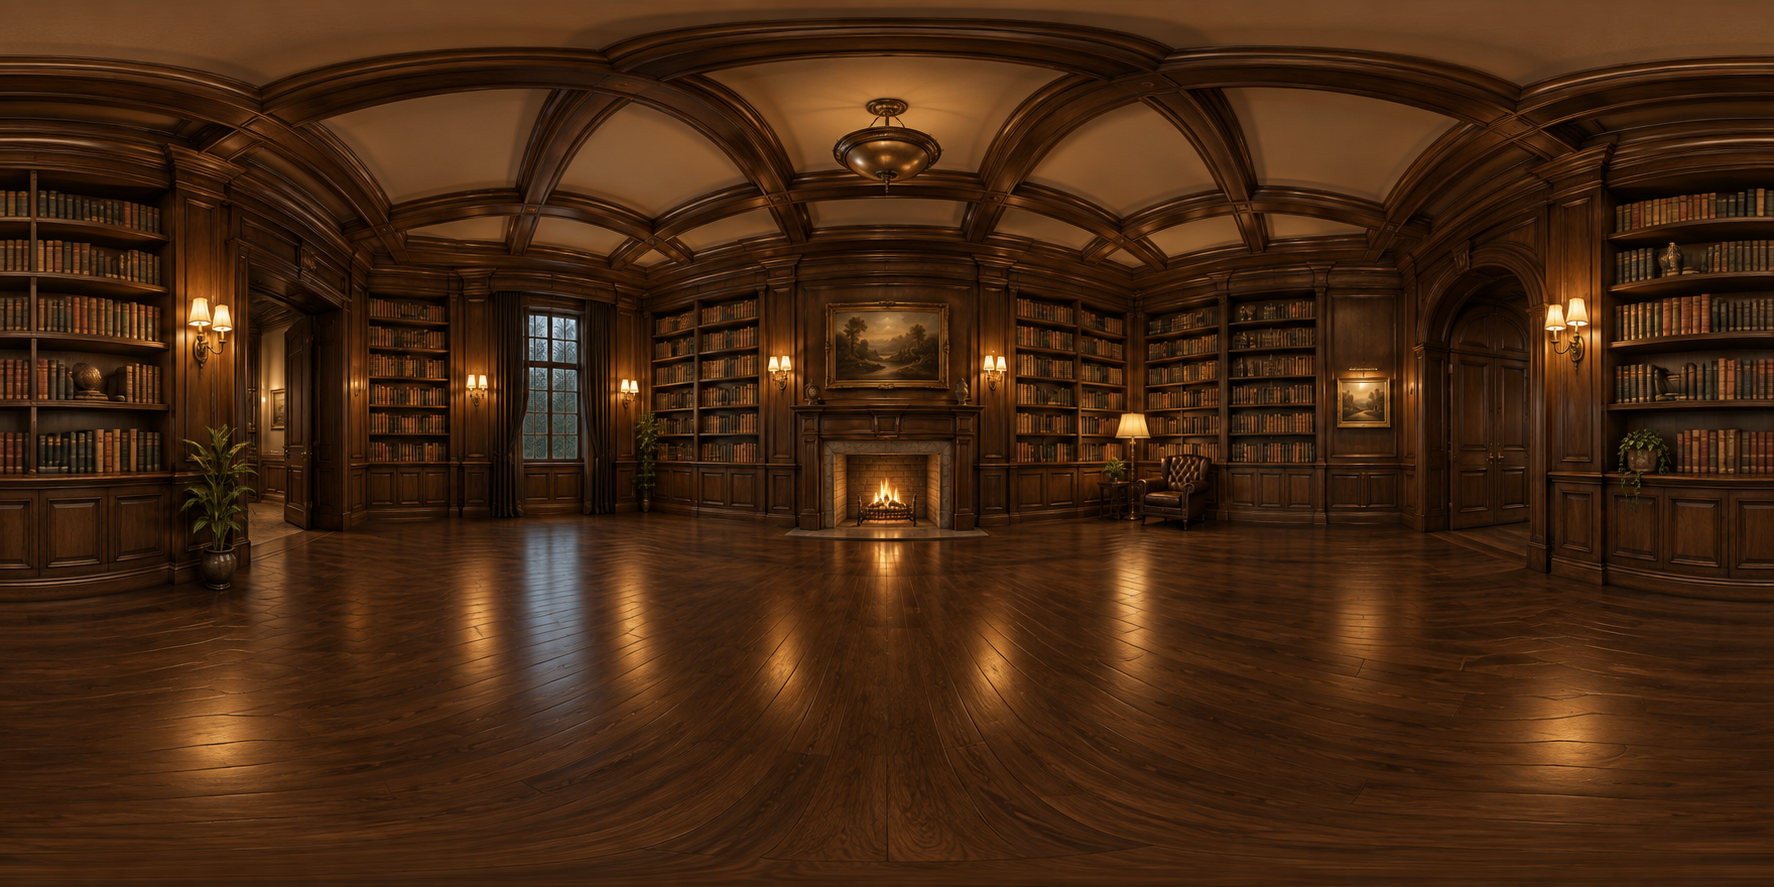
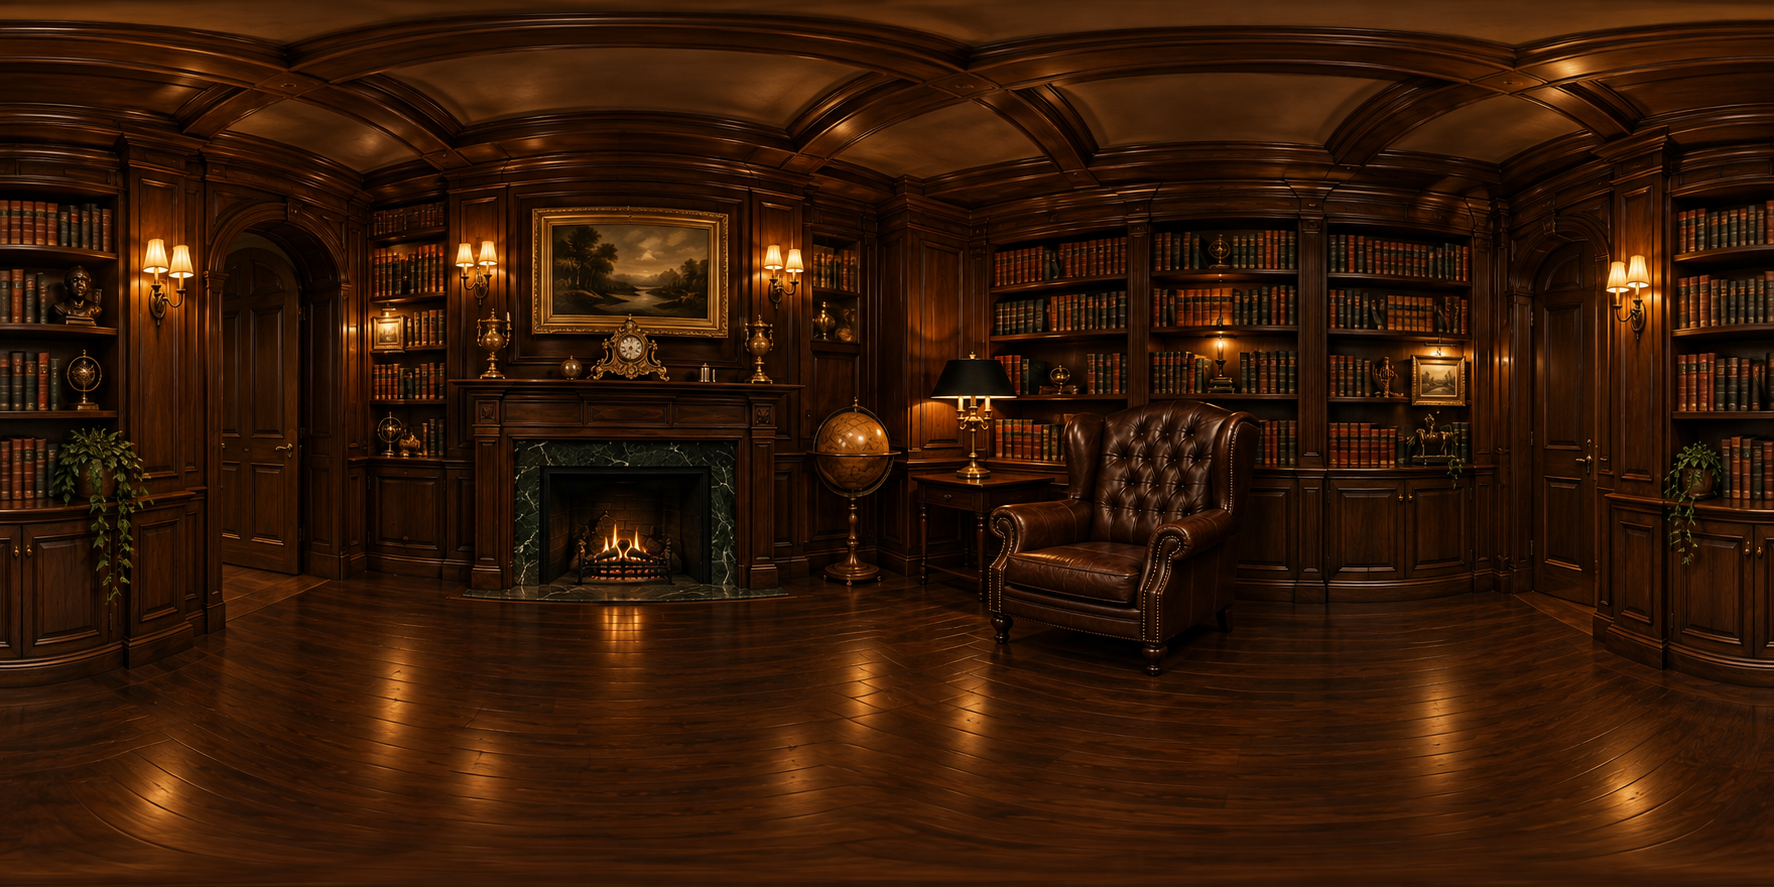
Fix hidden chessboard squares and match the library reference

diff --git a/scene.js b/scene.js
@@ -2,6 +2,7 @@ import * as THREE from './vendor/three.module.js';
 import { OrbitControls } from './vendor/OrbitControls.js';
 import { GLTFLoader } from './vendor/GLTFLoader.js';
 import {fitBoardCamera} from './camera.js';
+import {BOARD_SURFACE_Y,createBoard} from './board.js';
 
 const PIECES = {p:'pawn',r:'rook',n:'knight',b:'bishop',q:'queen',k:'king'};
 const NAMES = {p:'bonde',r:'tårn',n:'springer',b:'løber',q:'dronning',k:'konge'};
@@ -26,10 +27,10 @@ export async function createChessScene({canvas,onSquare,onReady,onError,onCamera
   let needsRender=true,disposed=false,ready=false,state=null,side='w';
   let keyboardSquare={r:6,c:4},keyboardVisible=false;
   const pieceRoot=new THREE.Group();world.add(pieceRoot);
-  const pickTargets=[],squares=[],pieceMeshes=new Map(),templates={};
+  const pickTargets=[],pieceMeshes=new Map(),templates={};
   const loader=new THREE.TextureLoader();
   const raycaster=new THREE.Raycaster(),pointer=new THREE.Vector2();
-  const point=(r,c,y=.07)=>new THREE.Vector3(c-3.5,y,r-3.5);
+  const point=(r,c,y=BOARD_SURFACE_Y)=>new THREE.Vector3(c-3.5,y,r-3.5);
   function resize(){const w=canvas.clientWidth,h=canvas.clientHeight;if(!w||!h)return;renderer.setSize(w,h,false);camera.aspect=w/h;camera.updateProjectionMatrix();if(ready)fitBoardCamera(camera,controls.target,{azimuth:controls.getAzimuthalAngle(),polar:controls.getPolarAngle()});needsRender=true;}
   function resetView(nextSide=side){side=nextSide;resize();controls.target.set(0,.25,0);fitBoardCamera(camera,controls.target,{azimuth:(side==='b'?Math.PI:0)+.28});controls.update();needsRender=true;}
   resetView();
@@ -44,8 +45,8 @@ export async function createChessScene({canvas,onSquare,onReady,onError,onCamera
   const markerMats={selected:new THREE.MeshBasicMaterial({color:0xf5ca71}),legal:new THREE.MeshBasicMaterial({color:0x9eccac}),last:new THREE.MeshBasicMaterial({color:0xd4a65f,transparent:true,opacity:.18,depthWrite:false}),check:new THREE.MeshBasicMaterial({color:0xea7467}),focus:new THREE.MeshBasicMaterial({color:0xffffff})};
   const markerRoot=new THREE.Group();world.add(markerRoot);
   const ringGeo=new THREE.RingGeometry(.38,.415,48),dotGeo=new THREE.CircleGeometry(.105,32),lastGeo=new THREE.PlaneGeometry(.96,.96);
-  function marker(geo,mat,r,c,y=.026){const m=new THREE.Mesh(geo,mat);m.rotation.x=-Math.PI/2;m.position.copy(point(r,c,y));markerRoot.add(m);}
-  function updateMarkers(){markerRoot.clear();if(!state)return;if(state.lastMove)for(const p of [state.lastMove.from,state.lastMove.to])marker(lastGeo,markerMats.last,p.r,p.c,.025);if(state.selected)marker(ringGeo,markerMats.selected,state.selected.r,state.selected.c,.028);for(const p of state.legalTargets)marker(p.capture?ringGeo:dotGeo,markerMats.legal,p.r,p.c,.03);if(state.checkSquare)marker(ringGeo,markerMats.check,state.checkSquare.r,state.checkSquare.c,.033);if(keyboardVisible)marker(ringGeo,markerMats.focus,keyboardSquare.r,keyboardSquare.c,.037);needsRender=true;}
+  function marker(geo,mat,r,c,y=BOARD_SURFACE_Y+.006){const m=new THREE.Mesh(geo,mat);m.rotation.x=-Math.PI/2;m.position.copy(point(r,c,y));markerRoot.add(m);}
+  function updateMarkers(){markerRoot.clear();if(!state)return;if(state.lastMove)for(const p of [state.lastMove.from,state.lastMove.to])marker(lastGeo,markerMats.last,p.r,p.c,BOARD_SURFACE_Y+.003);if(state.selected)marker(ringGeo,markerMats.selected,state.selected.r,state.selected.c,BOARD_SURFACE_Y+.006);for(const p of state.legalTargets)marker(p.capture?ringGeo:dotGeo,markerMats.legal,p.r,p.c,BOARD_SURFACE_Y+.008);if(state.checkSquare)marker(ringGeo,markerMats.check,state.checkSquare.r,state.checkSquare.c,BOARD_SURFACE_Y+.011);if(keyboardVisible)marker(ringGeo,markerMats.focus,keyboardSquare.r,keyboardSquare.c,BOARD_SURFACE_Y+.015);needsRender=true;}
   function squareDescription(r,c){const piece=state?.board[r]?.[c];return `${'abcdefgh'[c]}${8-r}: ${piece?(piece.color==='w'?'hvid':'sort')+' '+NAMES[piece.type]:'tomt felt'}`;}
   function announce(){canvas.setAttribute('aria-label','3D-skakbræt. '+squareDescription(keyboardSquare.r,keyboardSquare.c));onSquareFocus?.(squareDescription(keyboardSquare.r,keyboardSquare.c));}
   function pick(e){const rect=canvas.getBoundingClientRect();pointer.set((e.clientX-rect.left)/rect.width*2-1,-(e.clientY-rect.top)/rect.height*2+1);raycaster.setFromCamera(pointer,camera);const hit=raycaster.intersectObjects([...pickTargets,...pieceRoot.children],true)[0];if(!hit)return null;let node=hit.object;while(node&&!node.userData.square)node=node.parent;return node?.userData.square||null;}
@@ -63,7 +64,7 @@ export async function createChessScene({canvas,onSquare,onReady,onError,onCamera
   canvas.addEventListener('webglcontextlost',e=>{e.preventDefault();ready=false;onError?.(new Error('3D-visningen mistede forbindelsen til grafikken. Genindlæs for at fortsætte.'));});
   function frame(){if(disposed)return;requestAnimationFrame(frame);if(document.hidden)return;controls.update();if(needsRender){renderer.render(world,camera);needsRender=false;}}frame();
   const materials={};
-  const api={resetView,update(next){state=next;if(!ready)return;for(let r=0;r<8;r++)for(let c=0;c<8;c++){const key=`${r},${c}`,p=state.board[r][c],old=pieceMeshes.get(key),signature=p?`${p.color}${p.type}`:'';if(old&&old.userData.signature!==signature){pieceRoot.remove(old);pieceMeshes.delete(key);}if(p&&!pieceMeshes.has(key)){const group=templates[p.type].clone(true);group.scale.set(1.208,1,1.208);group.position.copy(point(r,c,.018));if(p.color==='b')group.rotation.y=Math.PI;group.userData.square={r,c};group.userData.signature=signature;group.traverse(n=>{if(n.isMesh){n.material=materials[p.color];n.castShadow=true;n.receiveShadow=true;}});const collar=new THREE.Mesh(new THREE.CylinderGeometry(p.type==='n'?.173:.205,p.type==='n'?.185:.21,.035,48),brass);collar.position.y=p.type==='n'?.384:.055;group.add(collar);pieceRoot.add(group);pieceMeshes.set(key,group);}}updateMarkers();announce();},dispose(){disposed=true;observer.disconnect();controls.dispose();renderer.dispose();}};
+  const api={resetView,update(next){state=next;if(!ready)return;for(let r=0;r<8;r++)for(let c=0;c<8;c++){const key=`${r},${c}`,p=state.board[r][c],old=pieceMeshes.get(key),signature=p?`${p.color}${p.type}`:'';if(old&&old.userData.signature!==signature){pieceRoot.remove(old);pieceMeshes.delete(key);}if(p&&!pieceMeshes.has(key)){const group=templates[p.type].clone(true);group.scale.set(1.208,1,1.208);group.position.copy(point(r,c,BOARD_SURFACE_Y));if(p.color==='b')group.rotation.y=Math.PI;group.userData.square={r,c};group.userData.signature=signature;group.traverse(n=>{if(n.isMesh){n.material=materials[p.color];n.castShadow=true;n.receiveShadow=true;}});const collar=new THREE.Mesh(new THREE.CylinderGeometry(p.type==='n'?.173:.205,p.type==='n'?.185:.21,.035,48),brass);collar.position.y=p.type==='n'?.384:.055;group.add(collar);pieceRoot.add(group);pieceMeshes.set(key,group);}}updateMarkers();announce();},dispose(){disposed=true;observer.disconnect();controls.dispose();renderer.dispose();}};
   try{
     const [wood,rough,normal,panorama,...models]=await Promise.all([
       loader.loadAsync('./assets/wood_table_001_diff_1k.jpg'),loader.loadAsync('./assets/wood_table_001_rough_1k.jpg'),loader.loadAsync('./assets/wood_table_001_nor_gl_1k.jpg'),loader.loadAsync('./assets/library-panorama.png'),
@@ -72,17 +73,17 @@ export async function createChessScene({canvas,onSquare,onReady,onError,onCamera
     wood.colorSpace=THREE.SRGBColorSpace;wood.anisotropy=8;wood.wrapS=wood.wrapT=THREE.RepeatWrapping;
     for(const t of [rough,normal]){t.wrapS=t.wrapT=THREE.RepeatWrapping;t.anisotropy=8;}
     panorama.mapping=THREE.EquirectangularReflectionMapping;panorama.colorSpace=THREE.SRGBColorSpace;
-    world.background=panorama;world.backgroundBlurriness=.1;world.backgroundIntensity=.65;world.backgroundRotation.y=.8;
-    const pmrem=new THREE.PMREMGenerator(renderer);world.environment=pmrem.fromEquirectangular(panorama).texture;world.environmentIntensity=.5;pmrem.dispose();
+    // Align the fireplace/globe/chair side of the room with the initial board view.
+    world.background=panorama;world.backgroundBlurriness=.045;world.backgroundIntensity=.82;world.backgroundRotation.y=1.5;
+    const pmrem=new THREE.PMREMGenerator(renderer);world.environment=pmrem.fromEquirectangular(panorama).texture;world.environmentIntensity=.5;world.environmentRotation.copy(world.backgroundRotation);pmrem.dispose();
     const walnut=new THREE.MeshPhysicalMaterial({color:0x9e7655,map:wood,roughnessMap:rough,roughness:.55,normalMap:normal,normalScale:new THREE.Vector2(.13,.13),clearcoat:.5,clearcoatRoughness:.27});
     const darkTile=walnut.clone();darkTile.color.set(0x9f7851);darkTile.roughness=.4;
     const lightTile=new THREE.MeshPhysicalMaterial({color:0xf0d5a3,roughness:.42,normalMap:normal,normalScale:new THREE.Vector2(.035,.035),clearcoat:.35,clearcoatRoughness:.3});
     const darkTrim=new THREE.MeshStandardMaterial({color:0x1d1008,roughness:.35});
-    box(9.65,.22,9.65,-.39,darkTrim);box(9.5,.035,9.5,-.261,brass);box(9.5,.27,9.5,-.108,walnut);box(8.13,.025,8.13,.007,brass);
+    const board=createBoard({walnut,brass,darkTrim,lightTile,darkTile});
+    world.add(board.group);pickTargets.push(...board.squares);
     const tableMat=walnut.clone();const tableMap=wood.clone();tableMap.repeat.set(2,2);tableMap.needsUpdate=true;tableMat.map=tableMap;tableMat.color.set(0x76523a);tableMat.roughness=.64;box(16,.38,14,-.72,tableMat);
-    const squareGeometry=new THREE.PlaneGeometry(1,1);
-    for(let r=0;r<8;r++)for(let c=0;c<8;c++){const mesh=new THREE.Mesh(squareGeometry,(r+c)%2===0?lightTile:darkTile);mesh.rotation.x=-Math.PI/2;mesh.position.copy(point(r,c,.022));mesh.receiveShadow=true;mesh.userData.square={r,c};world.add(mesh);pickTargets.push(mesh);squares.push(mesh);}
-    function label(text,x,z,rotation=0){const c=document.createElement('canvas');c.width=c.height=128;const ctx=c.getContext('2d');ctx.fillStyle='#d7b780';ctx.font='50px Georgia';ctx.textAlign='center';ctx.textBaseline='middle';ctx.fillText(text,64,66);const t=new THREE.CanvasTexture(c);t.colorSpace=THREE.SRGBColorSpace;const mesh=new THREE.Mesh(new THREE.PlaneGeometry(.31,.31),new THREE.MeshBasicMaterial({map:t,transparent:true,depthWrite:false}));mesh.rotation.set(-Math.PI/2,0,rotation);mesh.position.set(x,.035,z);world.add(mesh);}
+    function label(text,x,z,rotation=0){const c=document.createElement('canvas');c.width=c.height=128;const ctx=c.getContext('2d');ctx.fillStyle='#d7b780';ctx.font='50px Georgia';ctx.textAlign='center';ctx.textBaseline='middle';ctx.fillText(text,64,66);const t=new THREE.CanvasTexture(c);t.colorSpace=THREE.SRGBColorSpace;const mesh=new THREE.Mesh(new THREE.PlaneGeometry(.31,.31),new THREE.MeshBasicMaterial({map:t,transparent:true,depthWrite:false}));mesh.rotation.set(-Math.PI/2,0,rotation);mesh.position.set(x,BOARD_SURFACE_Y+.003,z);world.add(mesh);}
     for(let i=0;i<8;i++){label('abcdefgh'[i],i-3.5,4.35);label('abcdefgh'[i],i-3.5,-4.35,Math.PI);label(String(8-i),-4.35,i-3.5);label(String(8-i),4.35,i-3.5,Math.PI);}
     materials.w=new THREE.MeshPhysicalMaterial({color:0xf0d9ad,roughness:.32,clearcoat:.55,clearcoatRoughness:.2,metalness:.06});
     materials.b=new THREE.MeshPhysicalMaterial({color:0x55412c,map:wood,roughness:.3,clearcoat:.62,clearcoatRoughness:.2,metalness:.06,normalMap:normal,normalScale:new THREE.Vector2(.035,.035)});

diff --git a/board.js b/board.js
@@ -1,0 +1,40 @@
+import * as THREE from './vendor/three.module.js';
+
+// One shared height keeps pieces and move indicators above the playing surface.
+export const BOARD_SURFACE_Y = .04;
+
+export function createBoard({walnut,brass,darkTrim,lightTile,darkTile}) {
+  const group=new THREE.Group();
+  group.name='chess-board';
+  const squares=[];
+  function box(name,width,height,depth,centerY,material) {
+    const mesh=new THREE.Mesh(new THREE.BoxGeometry(width,height,depth),material);
+    mesh.name=name;
+    mesh.position.y=centerY;
+    mesh.receiveShadow=true;
+    mesh.castShadow=true;
+    group.add(mesh);
+    return mesh;
+  }
+
+  box('board-base',9.65,.22,9.65,-.39,darkTrim);
+  box('board-edge-inlay',9.5,.035,9.5,-.2625,brass);
+  // The frame must stay below the tiles. The former .027 frame top hid .022 planes.
+  box('board-wood-frame',9.5,.27,9.5,.012-.27/2,walnut);
+  const tileThickness=.014;
+  const tileBottom=BOARD_SURFACE_Y-tileThickness;
+  box('board-playing-inlay',8.13,.025,8.13,tileBottom-.025/2,brass);
+
+  const tileGeometry=new THREE.BoxGeometry(1,tileThickness,1);
+  for(let r=0;r<8;r++)for(let c=0;c<8;c++) {
+    const tile=new THREE.Mesh(tileGeometry,(r+c)%2===0?lightTile:darkTile);
+    tile.name=`square-${'abcdefgh'[c]}${8-r}`;
+    tile.position.set(c-3.5,BOARD_SURFACE_Y-tileThickness/2,r-3.5);
+    tile.receiveShadow=true;
+    tile.castShadow=true;
+    tile.userData.square={r,c};
+    group.add(tile);
+    squares.push(tile);
+  }
+  return {group,squares};
+}

diff --git a/camera.js b/camera.js
@@ -1,7 +1,7 @@
 import {Vector3} from './vendor/three.module.js';
 // Conservatively include the entire raised frame and the tallest chess piece.
 const corners=[];
-for(const x of [-4.84,4.84])for(const y of [-.51,1.58])for(const z of [-4.84,4.84])corners.push(new Vector3(x,y,z));
+for(const x of [-4.84,4.84])for(const y of [-.51,1.60])for(const z of [-4.84,4.84])corners.push(new Vector3(x,y,z));
 export function fitBoardCamera(camera,target,{azimuth=.28,polar=.84,margin=.88}={}){
   const direction=new Vector3(Math.sin(azimuth)*Math.sin(polar),Math.cos(polar),Math.cos(azimuth)*Math.sin(polar));
   let distance=16;
